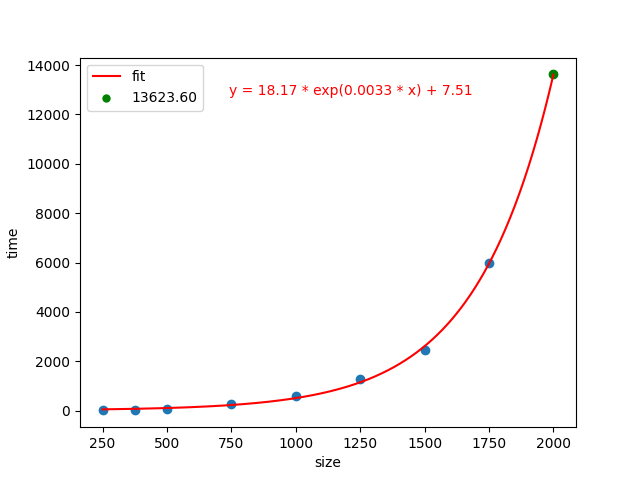
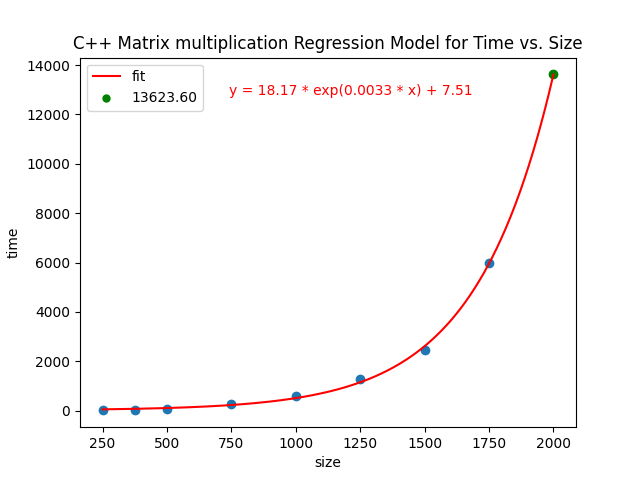
Fixed matrix model plot

Changed region(s): [[0.125, 0.0625, 0.9062, 0.125]]

diff --git a/model/C++AndRustMatrix.py b/model/C++AndRustMatrix.py
@@ -39,7 +39,7 @@ plt.scatter(x_pred, y_pred_rust, color='purple', label=f'Rust prediction: {y_pre
 
 plt.plot(x_smooth, y_smooth_cpp, color='blue')
 plt.plot(x_smooth, y_smooth_rust, color='orange')
-
+plt.title('Comparison of C++ and Rust Matrix multiplication Regression Models for Time vs. Size', fontsize=10)
 
 plt.text(1200, 17000, f' C++ fit: y={popt_cpp[0]:.2f}*exp({popt_cpp[1]:.4f}*x)+{popt_cpp[2]:.2f}', ha='center', color='blue')
 plt.text(1200, 15000, f' Rust fit: y={popt_rust[0]:.2f}*exp({popt_rust[1]:.4f}*x)+{popt_rust[2]:.2f}', ha='center', color='orange')

diff --git a/model/RustMatrix.py b/model/RustMatrix.py
@@ -38,6 +38,7 @@ y_smooth = np.concatenate((y_smooth, y_ext))
 plt.scatter(x, y)
 plt.plot(x_smooth, y_smooth, 'r-', label='fit')
 plt.scatter(x_pred, y_pred, color='green', label=f'{y_pred:.2f}', s=25)
+plt.title('Rust Matrix multiplication Regression Model for Time vs. Size')
 
 
 eqn = f'y = {popt[0]:.2f} * exp({popt[1]:.4f} * x) + {popt[2]:.2f}'

diff --git a/model/C++Matrix.py b/model/C++Matrix.py
@@ -38,6 +38,7 @@ y_smooth = np.concatenate((y_smooth, y_ext))
 plt.scatter(x, y)
 plt.plot(x_smooth, y_smooth, 'r-', label='fit')
 plt.scatter(x_pred, y_pred, color='green', label=f'{y_pred:.2f}', s=25)
+plt.title('C++ Matrix multiplication Regression Model for Time vs. Size')
 
 
 eqn = f'y = {popt[0]:.2f} * exp({popt[1]:.4f} * x) + {popt[2]:.2f}'
